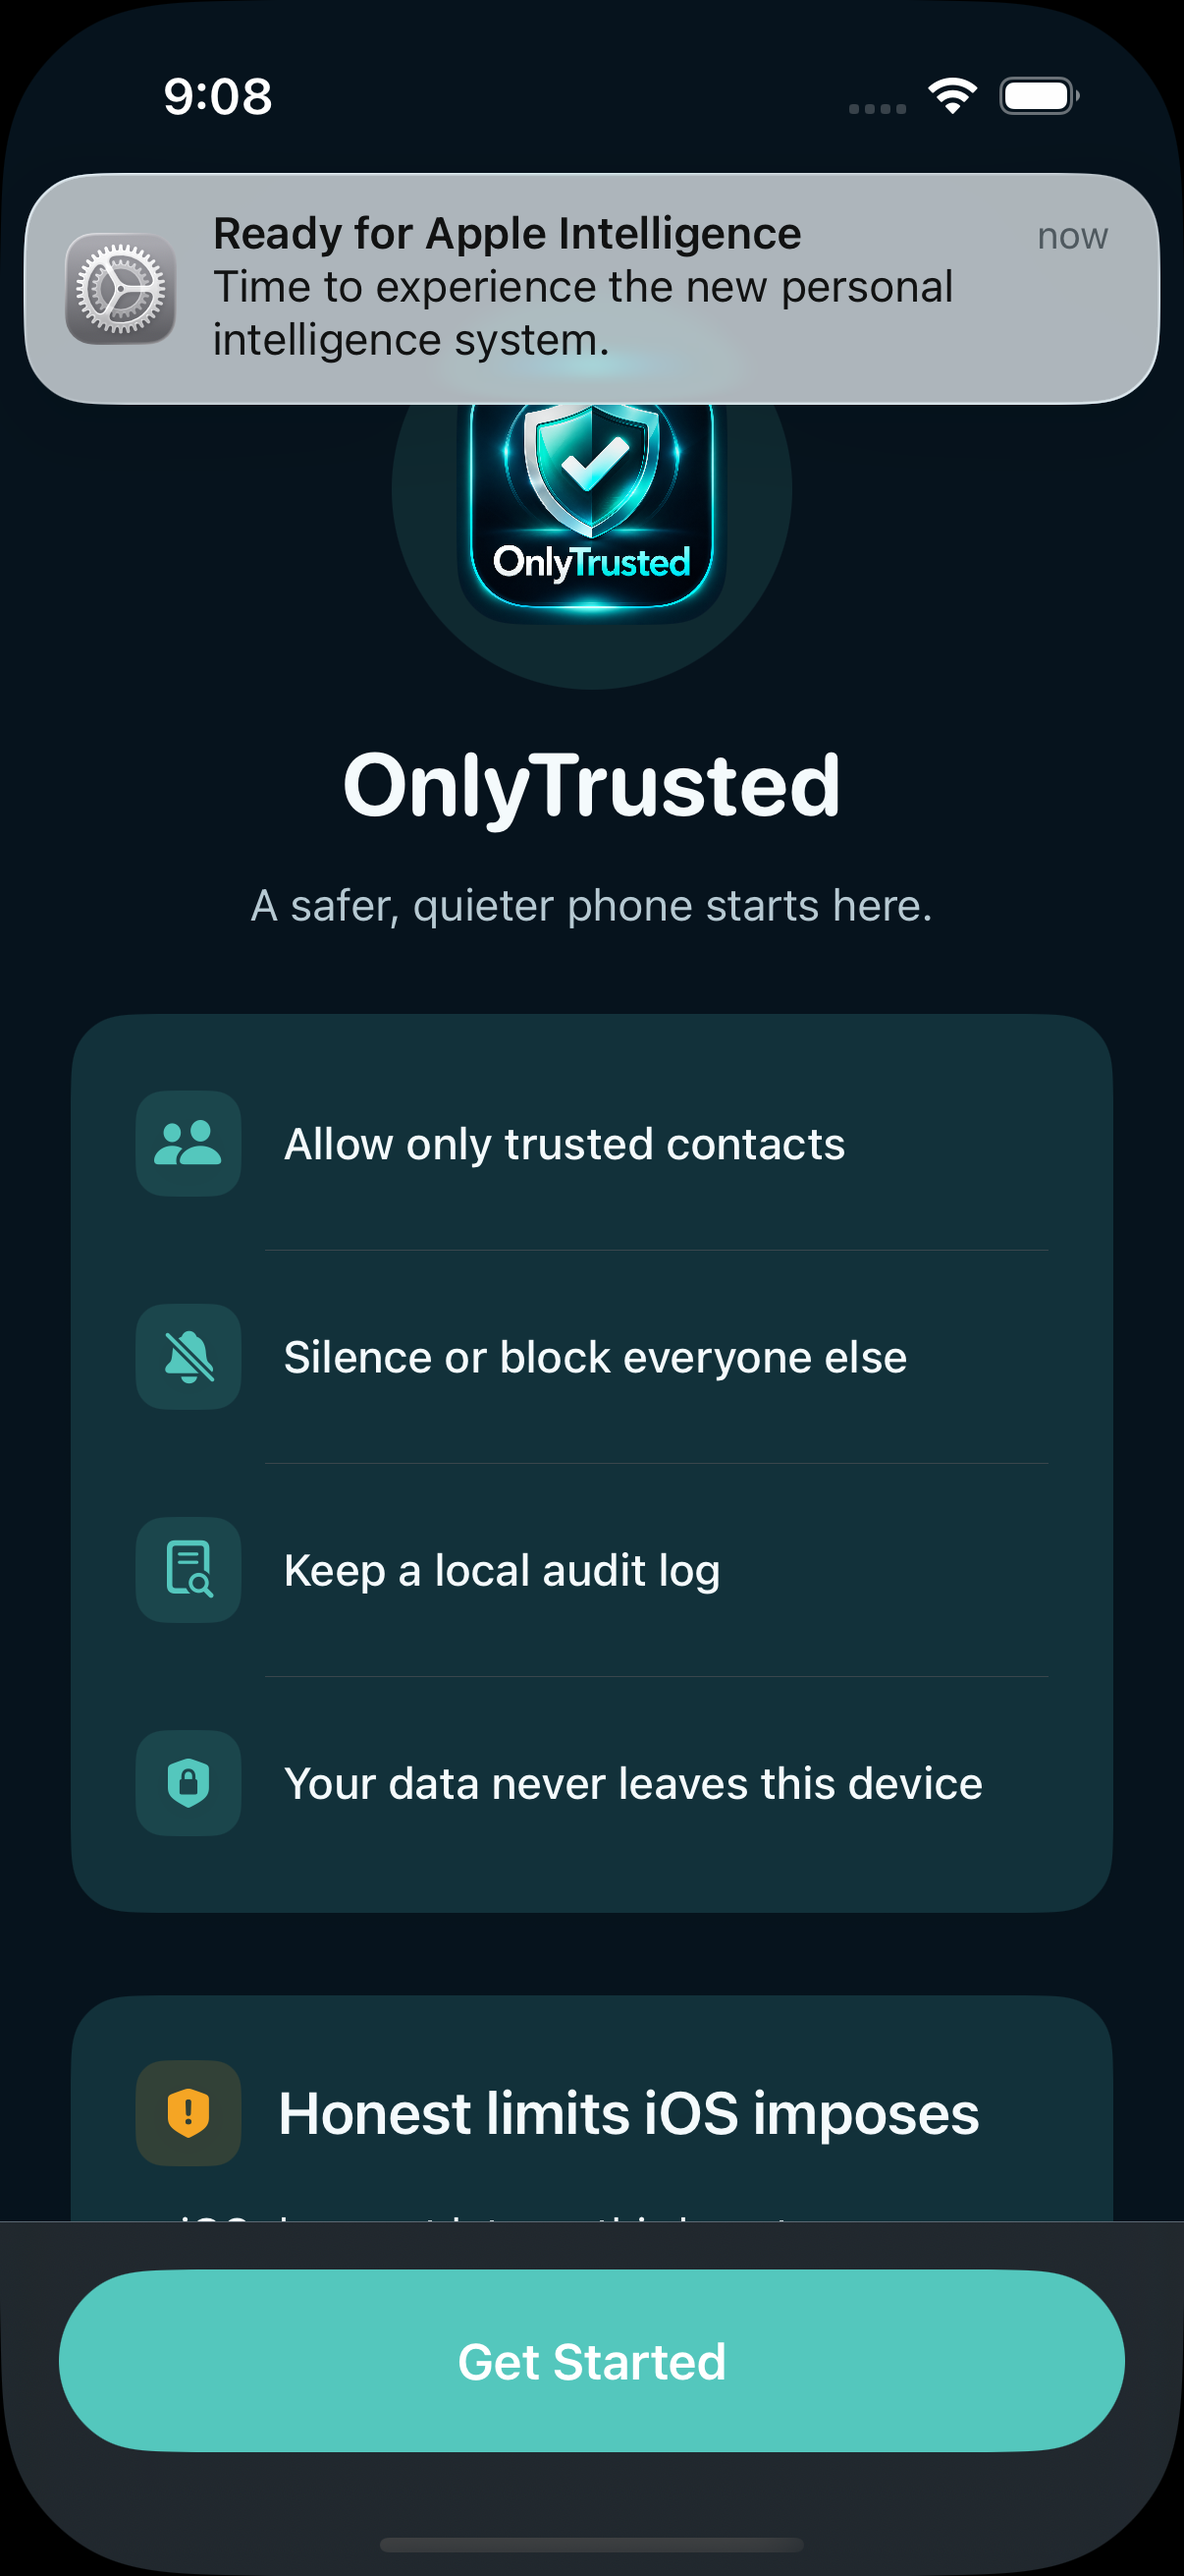
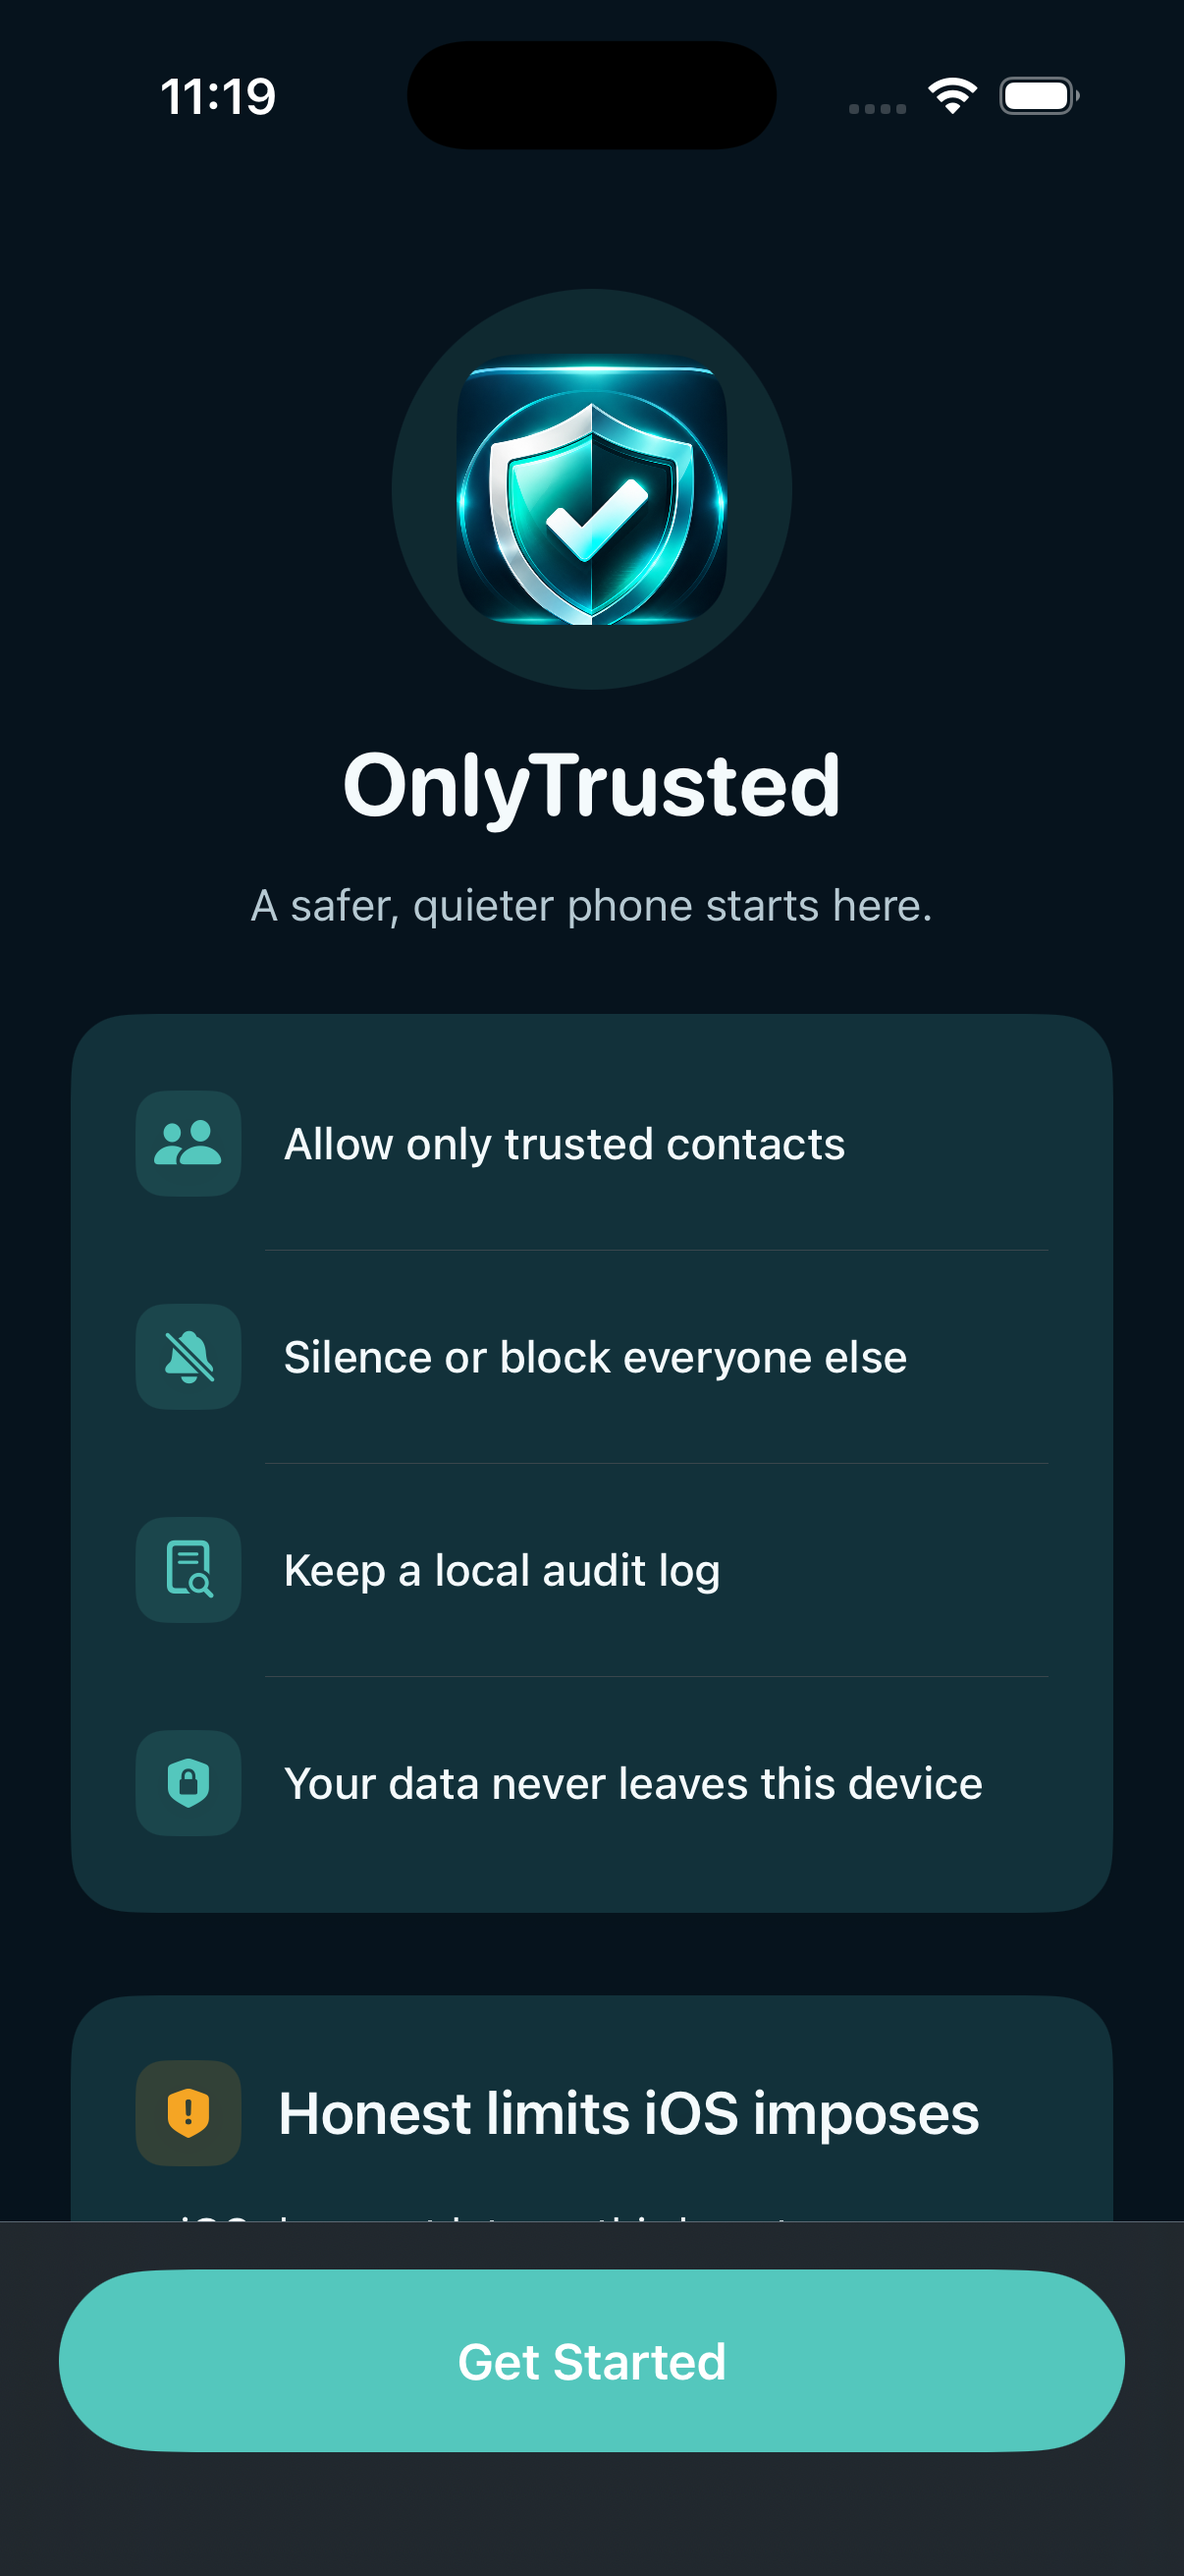
iOS: realign brand assets to the 14-screen implementation brief
Asset reorg (per IOS_14_SCREEN_IMPLEMENTATION brief):
- AppIcon: shield-only crop (previously held the full wordmark that
  cramped at launcher sizes). Clean shield + check on dark teal glow,
  readable at 60dp and above.
- BrandLogo (used by Splash + Onboarding + App Lock): shield-only crop.
- BrandArtwork (new): full original wordmark artwork retained at 1024
  with @2x and @3x variants.
- About hero now uses BrandArtwork so the full wordmark still shows
  where there is horizontal room.

Security fix:
- VaultEditScreen.authenticate() no longer auto-authorises when the
  device has no biometric or passcode set. Previously, editing an
  existing vault contact bypassed the gate on credential-less devices.
  Now shows an actionable message telling the user to set up a device
  passcode first. Does not affect new-contact creation (which is
  pre-authorised in the init path by design).

diff --git a/ios/OnlyTrusted/Sources/Vault/VaultEditScreen.swift b/ios/OnlyTrusted/Sources/Vault/VaultEditScreen.swift
@@ -112,7 +112,8 @@ struct VaultEditScreen: View {
         let ctx = LAContext()
         var err: NSError?
         guard ctx.canEvaluatePolicy(.deviceOwnerAuthentication, error: &err) else {
-            authorised = true
+            authorised = false
+            authError = "Set a device passcode, Face ID, or Touch ID in iOS Settings before editing a vault entry."
             return
         }
         ctx.evaluatePolicy(.deviceOwnerAuthentication,

diff --git a/ios/OnlyTrusted/Sources/About/AboutScreen.swift b/ios/OnlyTrusted/Sources/About/AboutScreen.swift
@@ -31,7 +31,7 @@ struct AboutScreen: View {
         PremiumCard {
             VStack(alignment: .leading, spacing: 14) {
                 HStack(spacing: 14) {
-                    Image("BrandLogo")
+                    Image("BrandArtwork")
                         .resizable()
                         .scaledToFit()
                         .frame(width: 72, height: 72)
